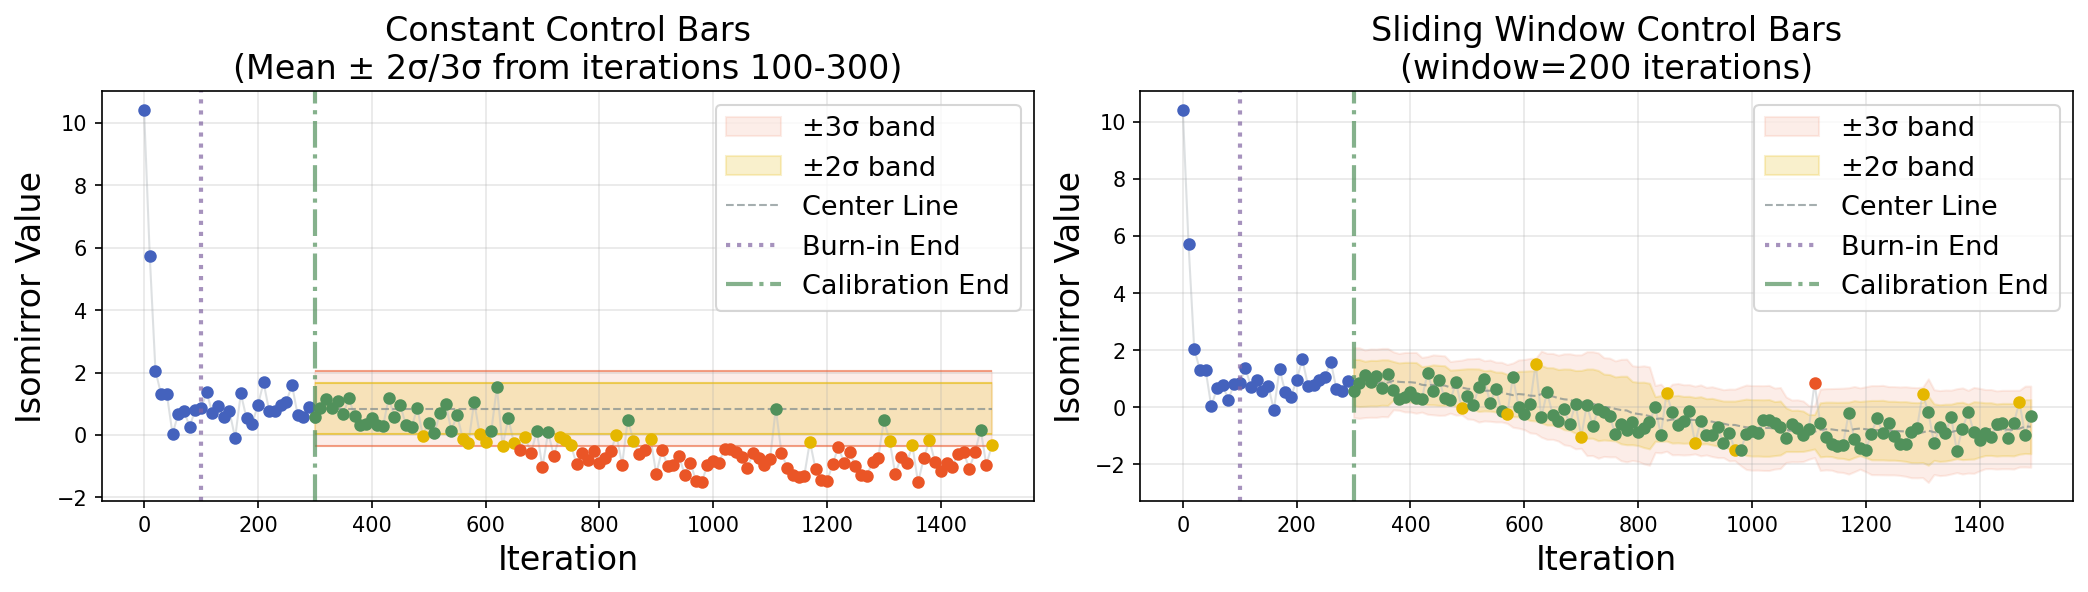
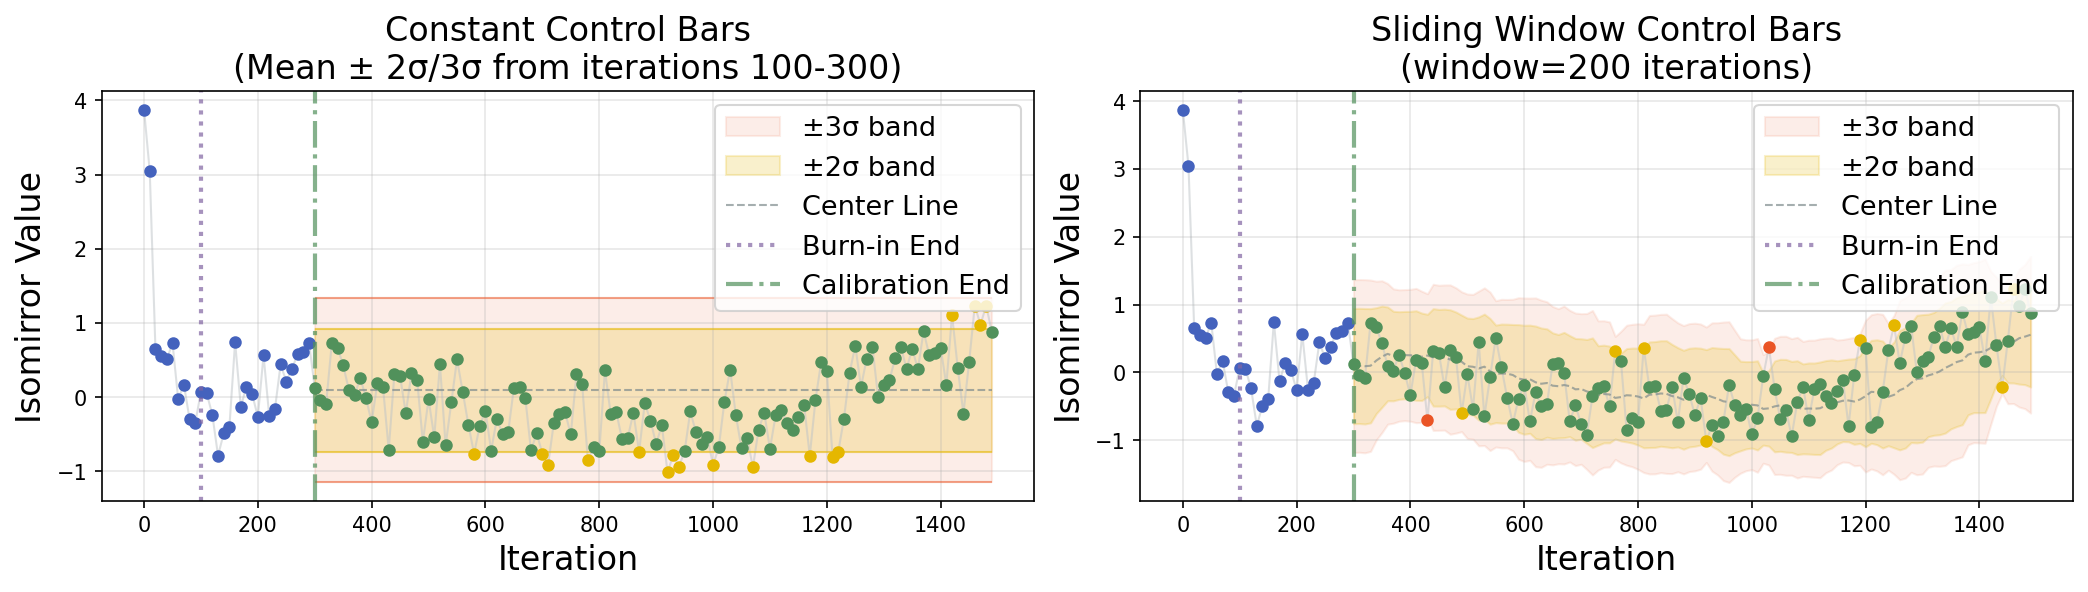
Switch figures 1&2 to additive decay; strip dead ema/window_decay from configs
- figure1.py: dynamic source -> figure1-dynamic-additive run (lambda=0.05, additive)
- figure2.py: source -> figure2-baseline-additive run (5 qpt, additive)
- New configs: figure1_dynamic_additive, figure2_baseline_additive,
  figure2_baseline_additive_fastdecay, 10x figure3-nollm rep configs (seeds 43-52)
- Removed dead ema:/window_decay: keys from 27 configs (only the
  .backup tdkps_analysis ever read them; current scripts use plain
  sliding-window mean/std)
- Regenerated figure1.png and figure2.png

diff --git a/experiments/figures/figure1.py b/experiments/figures/figure1.py
@@ -16,7 +16,7 @@ from sklearn.manifold import Isomap
 
 # Paths to experiment results
 STATIC_DIR = Path("experiments/results/figure1-static_2026-01-17_10-06-33")
-DYNAMIC_DIR = Path("experiments/results/figure1-dynamic_2026-01-17_10-06-33")
+DYNAMIC_DIR = Path("experiments/results/figure1-dynamic-additive_2026-05-04_11-02-22")
 OUTPUT_PATH = Path("experiments/figures/figure1.png")
 
 
@@ -117,7 +117,7 @@ def main():
     # Load data
     print("Loading TDKPS embeddings...")
     static_embedding, static_steps = load_tdkps_embeddings(STATIC_DIR, "figure1-static")
-    dynamic_embedding, dynamic_steps = load_tdkps_embeddings(DYNAMIC_DIR, "figure1-dynamic")
+    dynamic_embedding, dynamic_steps = load_tdkps_embeddings(DYNAMIC_DIR, "figure1-dynamic-additive")
 
     print("Loading accuracy data...")
     static_temporal_acc, static_nontemporal_acc, static_acc_steps = load_accuracy_from_snapshots(STATIC_DIR / "snapshots")

diff --git a/experiments/figures/figure2.py b/experiments/figures/figure2.py
@@ -12,7 +12,7 @@ import matplotlib.pyplot as plt
 from pathlib import Path
 from sklearn.manifold import Isomap
 
-RESULTS_DIR = Path("experiments/results/figure2-baseline_2026-01-16_16-49-25")
+RESULTS_DIR = Path("experiments/results/figure2-baseline-additive_2026-05-04_11-34-59")
 OUTPUT_PATH = Path("experiments/figures/figure2.png")
 
 
@@ -40,7 +40,7 @@ def main():
     OUTPUT_PATH.parent.mkdir(parents=True, exist_ok=True)
 
     print("Loading TDKPS embeddings...")
-    embedding_matrix, steps = load_tdkps_embeddings(RESULTS_DIR, "figure2-baseline")
+    embedding_matrix, steps = load_tdkps_embeddings(RESULTS_DIR, "figure2-baseline-additive")
 
     print("Computing isomirror...")
     iso_values = compute_isomirror(embedding_matrix, steps)
